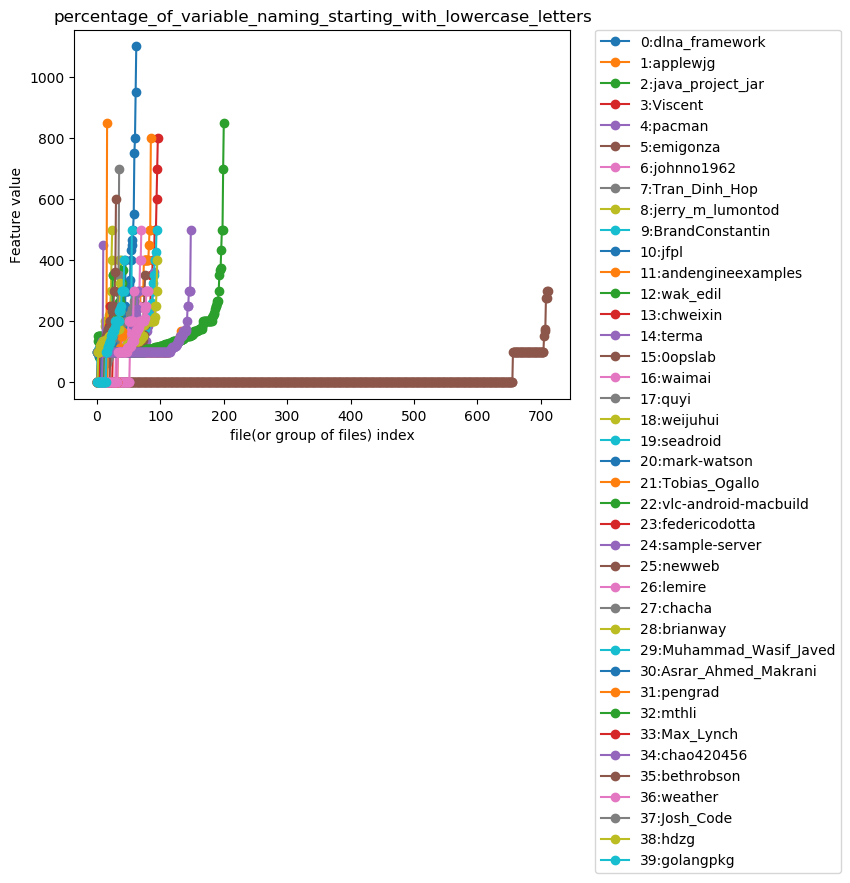
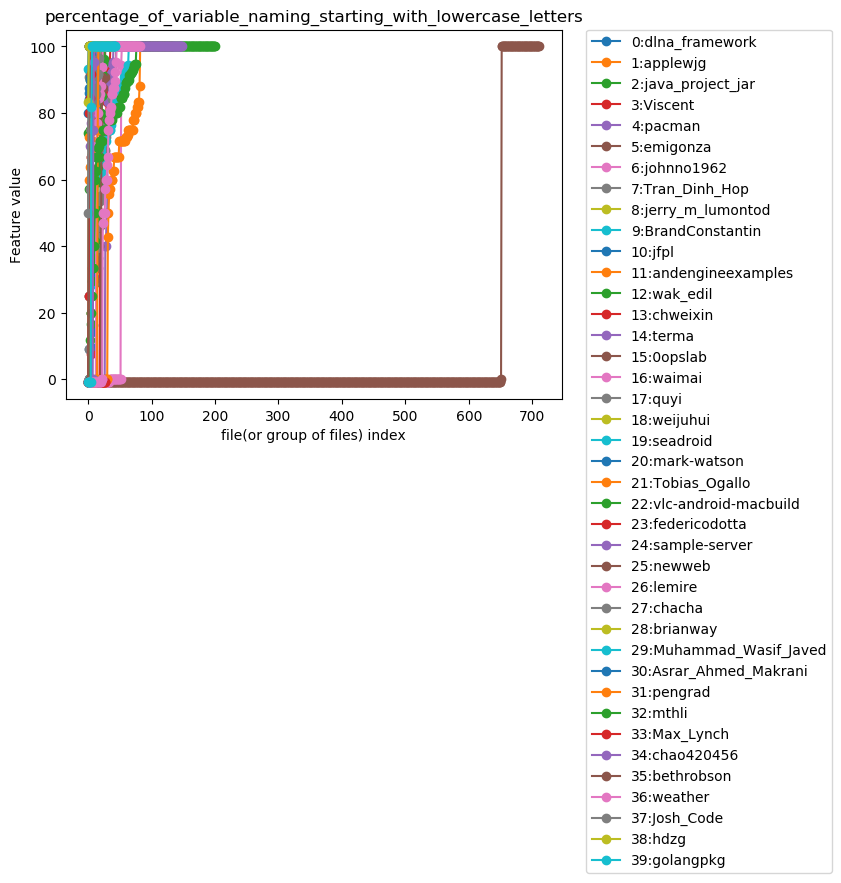
Fixed error in variables metrics.

diff --git a/psob_authorship/features/java/ast_metrics/VariableMetricsCalculator.py b/psob_authorship/features/java/ast_metrics/VariableMetricsCalculator.py
@@ -30,7 +30,7 @@ class VariableMetricsCalculator:
         """
         return divide_percentage_with_handling_zero_division(
             sum([self.number_of_variables_in_lowercase_for_file[filepath] for filepath in filepaths]),
-            sum([self.number_of_variables_in_lowercase_for_file[filepath] for filepath in filepaths]),
+            sum([self.number_of_variables_for_file[filepath] for filepath in filepaths]),
             self.LOGGER,
             "calculating metric percentage of variable naming without uppercase letters for " + str(filepaths)
         )
@@ -43,7 +43,7 @@ class VariableMetricsCalculator:
         """
         return divide_percentage_with_handling_zero_division(
             sum([self.number_of_variables_starting_with_lowercase_for_file[filepath] for filepath in filepaths]),
-            sum([self.number_of_variables_in_lowercase_for_file[filepath] for filepath in filepaths]),
+            sum([self.number_of_variables_for_file[filepath] for filepath in filepaths]),
             self.LOGGER,
             "calculating metric percentage of variable naming starting with lowercase letters for " + str(filepaths)
         )
